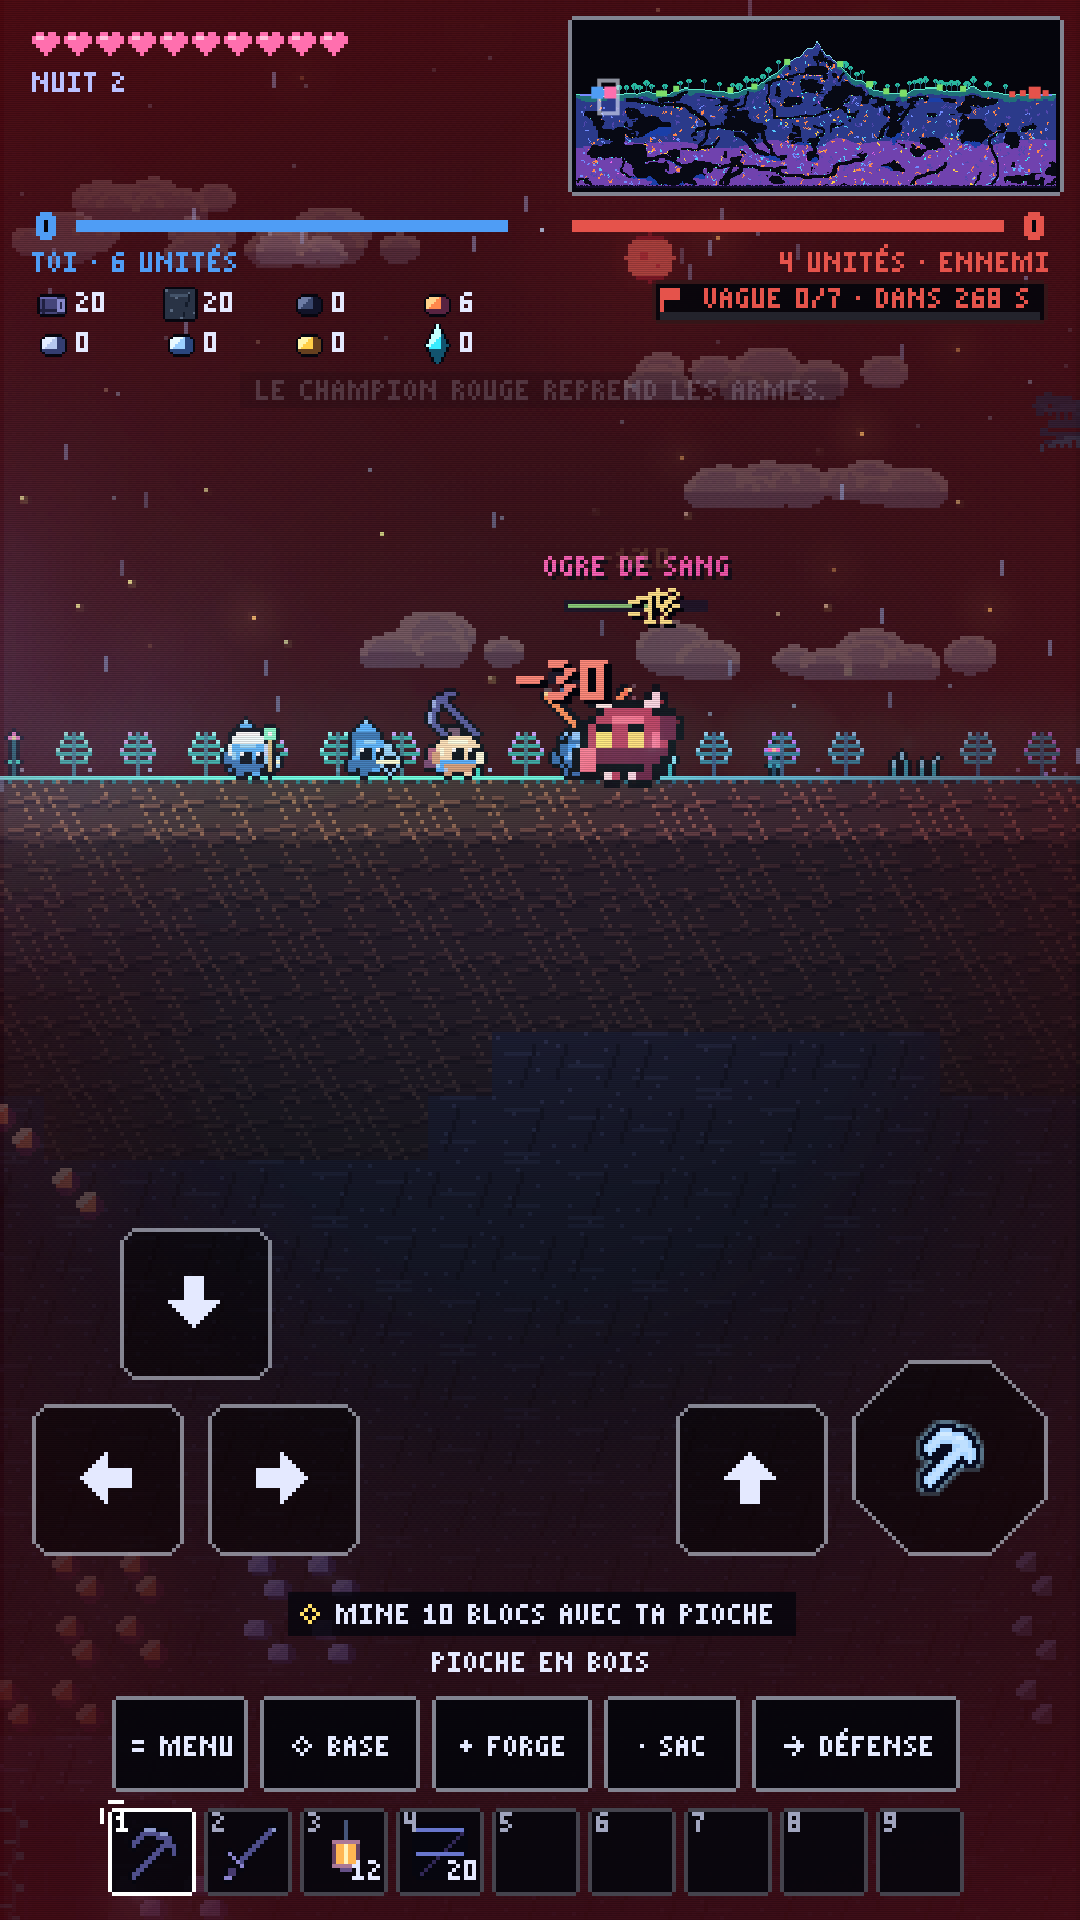
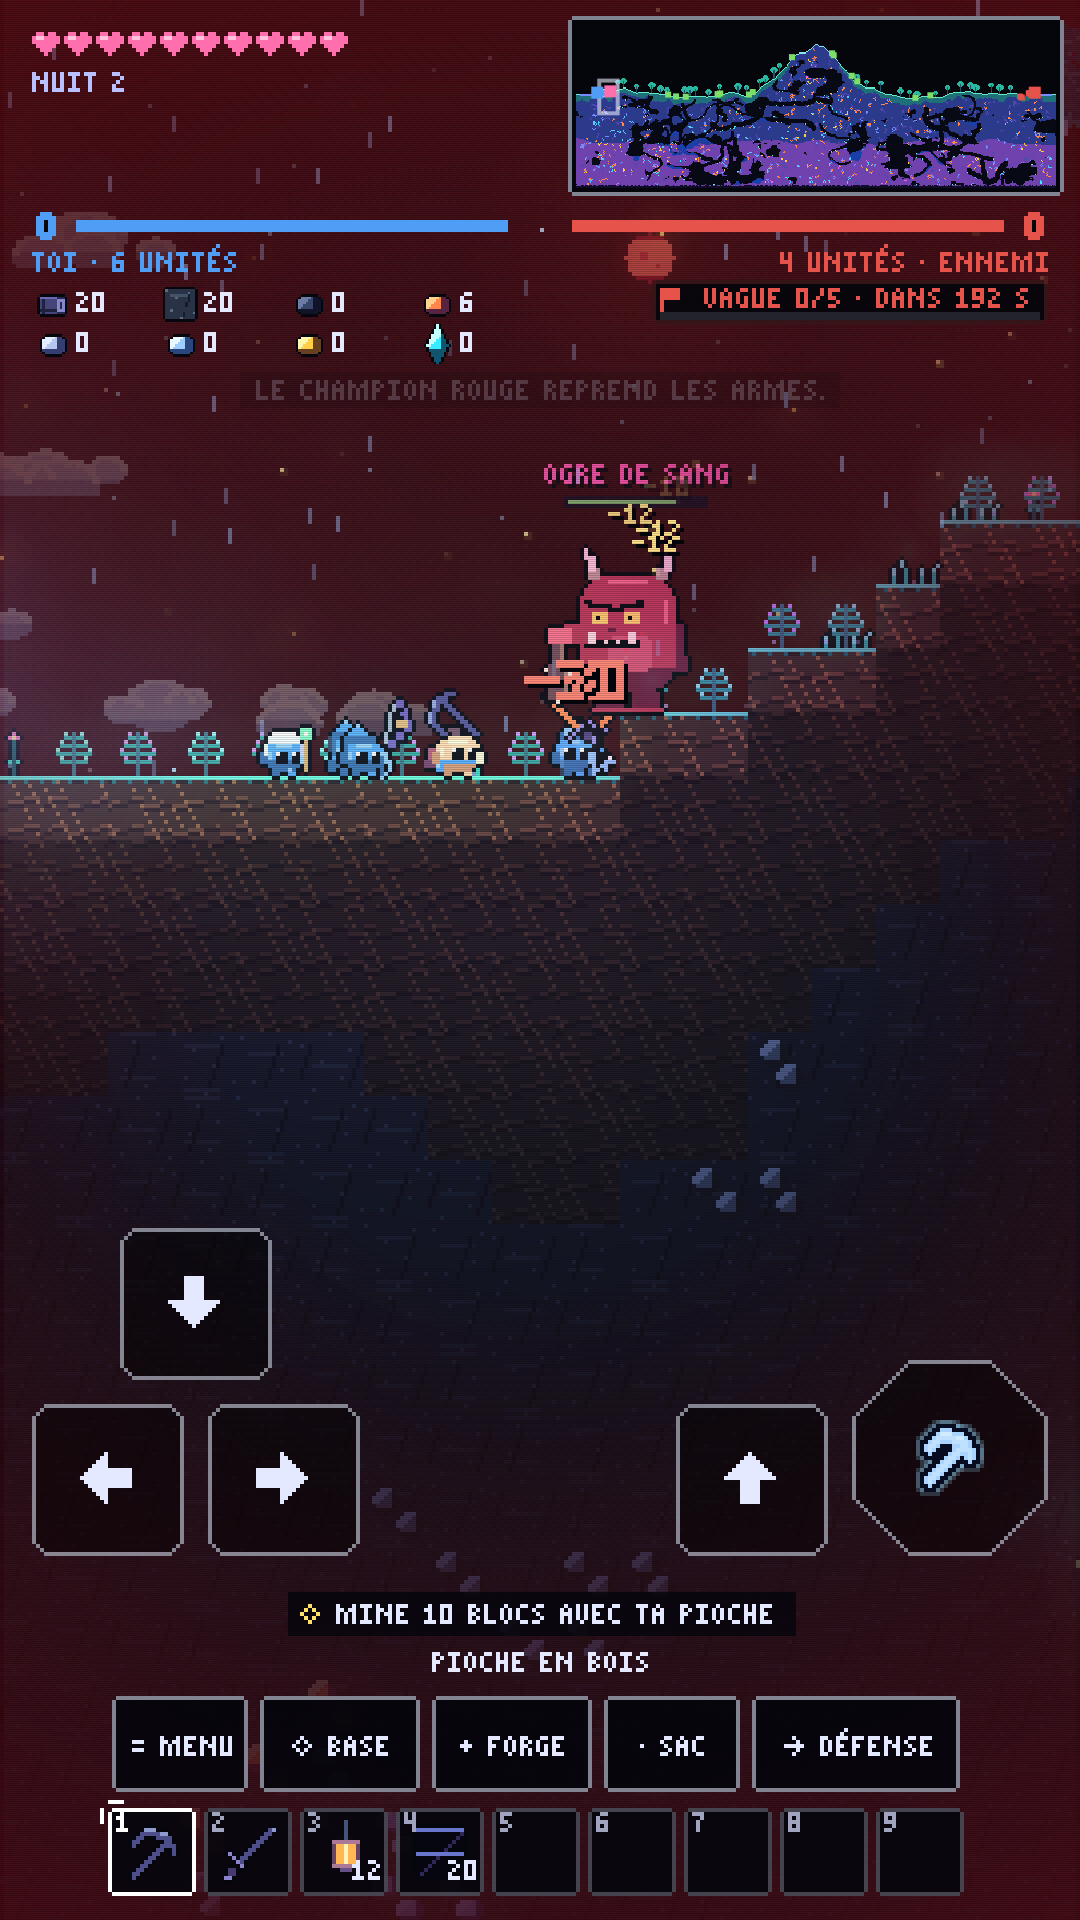
Ogre de sang redessiné à sa taille réelle (massue, cornes, poses de marche, d'armé et de frappe)
Le boss était un sprite 18x26 agrandi deux fois : ses pixels étaient deux fois plus gros que ceux du reste du monde.
Il a maintenant son propre jeu de sprites 44x54 dessiné par code (ogreSet), arme sa massue juste avant de frapper,
et sa barre de vie passe au-dessus des cornes. Captures « lune de sang » du store régénérées.

Claude-Session: https://claude.ai/code/session_01H98Wfk3paB6RJkShh1e56e

diff --git a/www/index.html b/www/index.html
@@ -285,8 +285,8 @@ function buildTextures(){
 
 // Bottom-aligned pixel creatures; all poses retain the original frame bounds.
 function humanoid(o,p){const c=mk(18,26),P=pen(c.getContext('2d')),ink='#05050c';
-  const role=o.role,hero=role==='hero',boss=role==='champion',ogre=role==='ogre',zombie=role==='zombie';
-  const body=hero?'#f2c9a0':zombie?'#9eafa0':ogre?'#b03a52':o.tunic,lo=hero?'#c98f6b':zombie?'#627c76':ogre?'#641f3a':shade(body,-.35),hi=hero?'#ffe4c6':zombie?'#c5d3b0':ogre?'#e8707f':shade(body,.35);
+  const role=o.role,hero=role==='hero',boss=role==='champion',zombie=role==='zombie';
+  const body=hero?'#f2c9a0':zombie?'#9eafa0':o.tunic,lo=hero?'#c98f6b':zombie?'#627c76':shade(body,-.35),hi=hero?'#ffe4c6':zombie?'#c5d3b0':shade(body,.35);
   const w=(boss?12:hero?10:9)+(p.bob?1:0)-(p.jump?1:0),h=(boss?12:hero?10:9)-(p.bob?1:0)+(p.jump?3:0);
   const x=Math.floor((18-w)/2)+(p.atk?1:0),y=24-h;
   if(hero){const tail=p.lf||0;P(x-2,y+3,3,Math.max(2,h-4),'#a95572');P(x-3,y+h-3+Math.sign(tail),3,2,'#703c62')}
@@ -298,9 +298,6 @@ function humanoid(o,p){const c=mk(18,26),P=pen(c.getContext('2d')),ink='#05050c'
   P(x+2,24-(step>0?1:0),2,1,lo);P(x+w-4,24-(step<0?1:0),2,1,body);
   const ey=y+Math.floor(h*.4),ex=x+w-7;
   if(zombie){for(const xx of[ex,ex+4]){P(xx,ey,1,1,ink);P(xx+2,ey,1,1,ink);P(xx+1,ey+1,1,1,ink);P(xx,ey+2,1,1,ink);P(xx+2,ey+2,1,1,ink)}P(ex+1,ey+3,1,1,lo)}
-  // ogre de la lune de sang : yeux de braise, cornes et crocs (dessiné deux fois plus grand en jeu)
-  else if(ogre){for(const xx of[ex,ex+4]){P(xx,ey,2,2,'#ffe066');P(xx,ey-1,2,1,ink)}P(ex,ey+4,6,1,ink);P(ex+1,ey+5,1,1,'#f3e6d0');P(ex+4,ey+5,1,1,'#f3e6d0');
-    P(x+1,y-2,1,2,'#f3e6d0');P(x+2,y-1,1,1,'#f3e6d0');P(x+w-2,y-2,1,2,'#f3e6d0');P(x+w-3,y-1,1,1,'#f3e6d0')}
   else{for(const xx of[ex,ex+4]){P(xx,ey,3,3,ink);P(xx,ey,1,1,'#ffffff')}}
   const arm=p.wind?-2:p.atk?2:(p.lf||0);
   P(x-1,y+h-5-arm,2,3,lo);P(x+w-1,y+h-5+arm,2,3,hi);
@@ -336,6 +333,30 @@ function golemSet(eye){const mkF=(f,attack=false,jump=false)=>{const c=mk(20,26)
   P(x+9,y+8,2,1,rim);if(attack){P(16,21,3,2,body);P(17,20,2,1,rim)}
   return outline(c,'#05050c')};
   const fr={walk:[mkF(0),mkF(1),mkF(0),mkF(-1)],idle:[mkF(0),mkF(1)],jump:mkF(0,false,true),wind:mkF(2),atk:mkF(0,true)};
+  return{R:fr,L:{walk:fr.walk.map(flipC),idle:fr.idle.map(flipC),jump:flipC(fr.jump),atk:flipC(fr.atk),wind:flipC(fr.wind)}}}
+// ogre de sang : dessiné à sa taille réelle (44x54) pour garder la même finesse de pixel que le reste du monde.
+// Corps centré sur x=19 ; la massue repose sur l'épaule, se lève (wind) puis s'abat devant lui (atk).
+function ogreSet(){const ink='#05050c',body='#b03a52',lo='#641f3a',hi='#e8707f',belly='#c9566c',bone='#f3e6d0',boneLo='#b9a58f',wood='#6b4a52',woodHi='#a07a6a';
+  const mkF=o=>{const c=mk(44,54),P=pen(c.getContext('2d')),st=o.step||0,up=o.jump?3:0,x=7+(o.atk?2:0),w=24,h=30-(o.bob||0),y=47-h-up,a=o.arm||0;
+    // bras arrière, puis jambes (une levée sur deux en marche)
+    P(x-2,y+12+a,4,9,lo);P(x-3,y+20+a,5,4,lo);
+    P(x+4,47-up,7,5-(st>0?2:0),lo);P(x+3,51-up-(st>0?2:0),9,1,body);P(x+w-11,47-up,7,5-(st<0?2:0),lo);P(x+w-12,51-up-(st<0?2:0),9,1,body);
+    // corps : gros ovale en gradins, ventre plus clair, reflet sur le crâne
+    for(let j=0;j<h;j++){const k=Math.min(j,h-1-j),inset=k===0?5:k===1?3:k===2?2:k<5?1:0;P(x+inset,y+j,w-inset*2,1,j>=h-6?lo:body)}
+    P(x+6,y+h-13,w-13,7,belly);P(x+7,y+h-14,w-15,1,belly);P(x+7,y+h-6,w-15,1,belly);P(x+7,y+1,w-14,1,hi);P(x+2,y+6,1,6,hi);
+    // cornes recourbées
+    for(const[hx,d]of[[x+3,-1],[x+w-4,1]]){P(hx-1,y-2,3,3,boneLo);P(hx+d-1,y-5,2,4,bone);P(hx+d*2,y-7,1,3,bone)}
+    // yeux de braise sous des sourcils froncés, gueule à crocs
+    const ey=y+9;for(const ex of[x+9,x+17]){P(ex,ey,4,3,'#ffe066');P(ex+2,ey+1,1,1,ink);P(ex-1,ey-2,6,1,ink)}P(x+8,ey-3,2,1,ink);P(x+21,ey-3,2,1,ink);P(x+13,ey-1,4,1,ink);
+    P(x+15,ey+4,2,1,lo);P(x+9,ey+7,14,2,ink);P(x+10,ey+5,2,3,bone);P(x+20,ey+5,2,3,bone);P(x+14,ey+7,1,1,bone);P(x+17,ey+7,1,1,bone);
+    // massue cloutée (manche + tête) : tête en haut au repos et à l'armé, tête en bas quand elle s'abat
+    const club=(cx,cy,len,down)=>{const hy=down?cy+len-1:cy-8;P(cx,cy,3,len,wood);P(cx,cy,1,len,woodHi);P(cx-1,hy,5,9,wood);P(cx-1,hy,1,9,woodHi);P(cx-2,hy+2,1,1,bone);P(cx+4,hy+4,1,1,bone);P(cx+4,hy+1,1,1,bone);P(cx+1,down?hy+9:hy-1,1,1,bone)};
+    if(o.wind){club(x+w-1,y-4,11);P(x+w-3,y+5,5,9,body);P(x+w-3,y+4,5,3,hi)}
+    else if(o.atk){P(x+w-2,y+12,6,5,body);club(x+w+4,y+15,24-(y+15-17),true);P(x+w+2,y+13,6,4,hi)}
+    else{club(x+w+1,y+8-a,13);P(x+w-2,y+13-a,4,8,body);P(x+w-1,y+19-a,5,4,hi)}
+    return outline(c,ink)};
+  const stp=[1,1,0,-1,-1,0],bob=[0,1,0,0,1,0],arm=[1,0,-1,-1,0,1];
+  const fr={walk:stp.map((s,i)=>mkF({step:s,bob:bob[i],arm:arm[i]})),idle:[mkF({}),mkF({bob:1})],jump:mkF({jump:true,step:1}),wind:mkF({wind:true}),atk:mkF({atk:true,bob:1})};
   return{R:fr,L:{walk:fr.walk.map(flipC),idle:fr.idle.map(flipC),jump:flipC(fr.jump),atk:flipC(fr.atk),wind:flipC(fr.wind)}}}
 function slimeFrames(col){return[0,1,2].map(f=>{const c=mk(16,14),P=pen(c.getContext('2d')),w=[10,12,8][f],h=[8,6,10][f],x=(16-w)/2,y=12-h;
   for(let j=0;j<h;j++){const inset=j===0||j===h-1?2:j===1?1:0;P(x+inset,y+j,w-inset*2,1,j>h-3?shade(col,-.35):col)}
@@ -381,7 +402,7 @@ function buildSprites(){
   SPR.champion0=charSet({role:'champion',tunic:'#4f9df5'});
   SPR.champion1=charSet({role:'champion',skin:'#ae8e93',tunic:'#e5534b',pants:'#302238',boots:'#161626',helm:'#43394f',plume:'#ff8666',cape:'#942f4c',belt:'#ceaa6b'});
   SPR.zombie=charSet({role:'zombie',skin:'#87a18b',hair:'#303d46',tunic:'#665575',pants:'#303047',boots:'#1b2130'});
-  SPR.ogre=charSet({role:'ogre'});
+  SPR.ogre=ogreSet();
   SPR.slime=slimeFrames('#8273d9');SPR.slimeB=slimeFrames('#628ee7');
   SPR.arrow=(()=>{const c=mk(10,3),P=pen(c.getContext('2d'));P(0,0,2,1,'#92a9b9');P(1,1,8,1,'#797dc4');P(0,2,2,1,'#92a9b9');P(7,0,1,3,'#778ba4');P(8,1,2,1,'#dce3d8');return c})();
   const met={1:['#4e4e8b','#8f9bcf'],2:ORE[COPPER].slice(1),3:ORE[IRON].slice(1),4:ORE[DIAMOND].slice(1)};
@@ -1192,13 +1213,14 @@ function spawnMonsters(dt){const night=daylight()<.25,bm=isBlood()?2:1;const n=e
 // Il naît au pied de la montagne (une bonne minute de marche), avance vers ton cœur en brisant ce qui le bloque et frappe en zone. Abattu par les bleus : diamants, or et une relique.
 // S'il tient jusqu'à l'aube, il s'évapore sans rien laisser.
 function spawnOgre(){if(ents.some(e=>e.kind==='ogre'&&!e.dead))return;const x=clamp(Math.floor(WW*R(.27,.36)),40,WW-60),n=stats.ogres=(stats.ogres||0)+1,hp=Math.round((520+diff*150)*(1+.35*(n-1)));
-  ents.push({type:'monster',kind:'ogre',boss:true,team:2,x:x*T,y:surf[x]*T-39,w:16,h:38,vx:0,vy:0,hp,maxhp:hp,dir:-1,onGround:false,atk:0,flash:0,anim:0,stepOff:0,digT:0});
+  ents.push({type:'monster',kind:'ogre',boss:true,team:2,x:x*T,y:surf[x]*T-41,w:16,h:40,vx:0,vy:0,hp,maxhp:hp,dir:-1,onGround:false,atk:0,flash:0,anim:0,stepOff:0,digT:0});
   toast('Un ogre de sang marche sur ta base ! Abats-le avant l\'aube pour son trésor.',6,'#ff5a5a')}
 function updateOgre(e,dt){
   if(daylight()>.5){e.dead=true;burst(e.x+e.w/2,e.y+e.h/2,'#ffb43a',26,70,-80,1.2,2);toast('L\'ogre de sang s\'évapore à l\'aube.',3,'#9fd0ff');return}
   // cible à sa hauteur seulement : il ne s'arrête pas au-dessus d'un mineur enfoui
   const cx=e.x+e.w/2;let tgt=null,bd=110;for(const o of tgtNear(e.x,110)){if(o.dead||!o.hp||o.team===2)continue;if(Math.abs(o.y+o.h-(e.y+e.h))>30)continue;const d=Math.abs(o.x+o.w/2-cx);if(d<bd){bd=d;tgt=o}}
   const goal=tgt?tgt.x+tgt.w/2:bases[0].core.x+11,gap=tgt?bd-tgt.w/2-e.w/2:1e9;e.dir=Math.sign(goal-cx)||e.dir;
+  e.pose=gap<8&&e.atk<.4?'wind':null; // il arme sa massue juste avant de frapper
   if(gap<8){e.vx=0;
     // coup de massue : tout ce qui se tient devant lui encaisse
     if(e.atk<=0){e.atk=1.5;const dm=26+diff*4;for(const o of tgtNear(e.x,60)){if(o.dead||!o.hp||o.team===2)continue;const ox=o.x+o.w/2-cx;if(ox*e.dir>-6&&Math.abs(ox)<o.w/2+e.w/2+16&&Math.abs(o.y+o.h-(e.y+e.h))<34)hurt(o,o.type==='core'?dm*.5:dm,e)}
@@ -1537,9 +1559,9 @@ function drawEnts(g,cx,cy){
       if(e.kind==='archer'&&!(e.atk>0&&e.atk<.18))drawHeld(g,ICON.bow,X+e.w/2+(e.swing>0?e.dir*2:0),Y+11,e.dir,-1);
       if(e.kind==='miner'&&(e.carryN>0||e.junk>0)){const best=['diamond','gold','silver','iron','copper','coal','stone','wood'].find(k=>e.carry[k]>0);if(best){g.drawImage(ICON[best],X-4+(e.dir>0?-6:6),Y+3,10,10)}}
       g.globalAlpha=1;if(e.spawnT>.3){g.globalCompositeOperation='lighter';g.globalAlpha=(e.spawnT-.3)/.3;g.drawImage(img,X-(e.kind==='golem'?2:5),Y+e.h-img.height+1);g.globalAlpha=1;g.globalCompositeOperation='source-over'}}
-    else if(e.type==='monster'){if(e.kind==='ogre'){const im=sprFrame(SPR.ogre,e),dx=X-10,dy=Y+e.h-im.height*2+3;g.drawImage(im,dx,dy,im.width*2,im.height*2);
-        if(e.flash>0){g.globalCompositeOperation='lighter';g.globalAlpha=.7;g.drawImage(im,dx,dy,im.width*2,im.height*2);g.globalAlpha=1;g.globalCompositeOperation='source-over'}
-        wtxt(g,'Ogre de sang',X+e.w/2,Y-17,'#ff6fae',7)}
+    else if(e.type==='monster'){if(e.kind==='ogre'){const im=e.pose==='wind'?(e.dir<0?SPR.ogre.L:SPR.ogre.R).wind:sprFrame(SPR.ogre,e),dx=X+(e.w>>1)-(e.dir<0?im.width-19:19),dy=Y+e.h-im.height+2;g.drawImage(im,dx,dy);
+        if(e.flash>0){g.globalCompositeOperation='lighter';g.globalAlpha=.7;g.drawImage(im,dx,dy);g.globalAlpha=1;g.globalCompositeOperation='source-over'}
+        wtxt(g,'Ogre de sang',X+e.w/2,Y-22,'#ff6fae',7)}
       else if(e.kind==='slime'){const fr=(e.blue?SPR.slimeB:SPR.slime);img=fr[e.onGround?(Math.sin(e.anim*6)>0?0:1):2];g.drawImage(img,X-2,Y+e.h-img.height+1)}
       else{img=sprFrame(SPR.zombie,e);g.drawImage(img,X-5,Y+e.h-img.height+1)}}
     if(e.flash>0&&img){g.globalCompositeOperation='lighter';g.globalAlpha=.7;g.drawImage(img,X-(e.kind==='golem'?2:e.kind==='slime'?2:5),Y+e.h-img.height+1);g.globalAlpha=1;g.globalCompositeOperation='source-over'}
@@ -1547,7 +1569,7 @@ function drawEnts(g,cx,cy){
     if(e.kind==='champion')wtxt(g,'Champion',X+e.w/2,Y-15,'#ff9a8a',7)
     // galvanisé par le champion : étincelle au-dessus de la tête
     if(e.aura>time&&((time*6+e.x)|0)%3===0){g.fillStyle='#ffd27a';g.fillRect(X+(e.w>>1),Y-4,1,2);g.fillRect(X+(e.w>>1)-1,Y-3,3,1)}
-    if(e.hp<e.maxhp||e.kind==='champion'||e.boss){const wd=e.boss?34:Math.max(12,e.w+4);g.fillStyle='#120e1c';g.fillRect(X+e.w/2-wd/2-1,Y-6,wd+2,3);g.fillStyle=e.team===0?'#5fb0ff':e.team===1?'#ff5a4a':'#7ddf6a';g.fillRect(X+e.w/2-wd/2,Y-5,Math.max(1,wd*e.hp/e.maxhp),1)}}
+    if(e.hp<e.maxhp||e.kind==='champion'||e.boss){const wd=e.boss?34:Math.max(12,e.w+4);const by=Y-(e.boss?8:0);g.fillStyle='#120e1c';g.fillRect(X+e.w/2-wd/2-1,by-6,wd+2,3);g.fillStyle=e.team===0?'#5fb0ff':e.team===1?'#ff5a4a':'#7ddf6a';g.fillRect(X+e.w/2-wd/2,by-5,Math.max(1,wd*e.hp/e.maxhp),1)}}
   // joueur
   const p=player;if(!p.dead&&!(p.iframes>0&&Math.floor(time*20)%2)){const img=sprFrame(SPR.player,p,!!mining);const X=Math.round(p.x+ox),Y=Math.round(p.y+oy+(p.stepOff||0));
     // écrasement à l'atterrissage, étirement au saut
